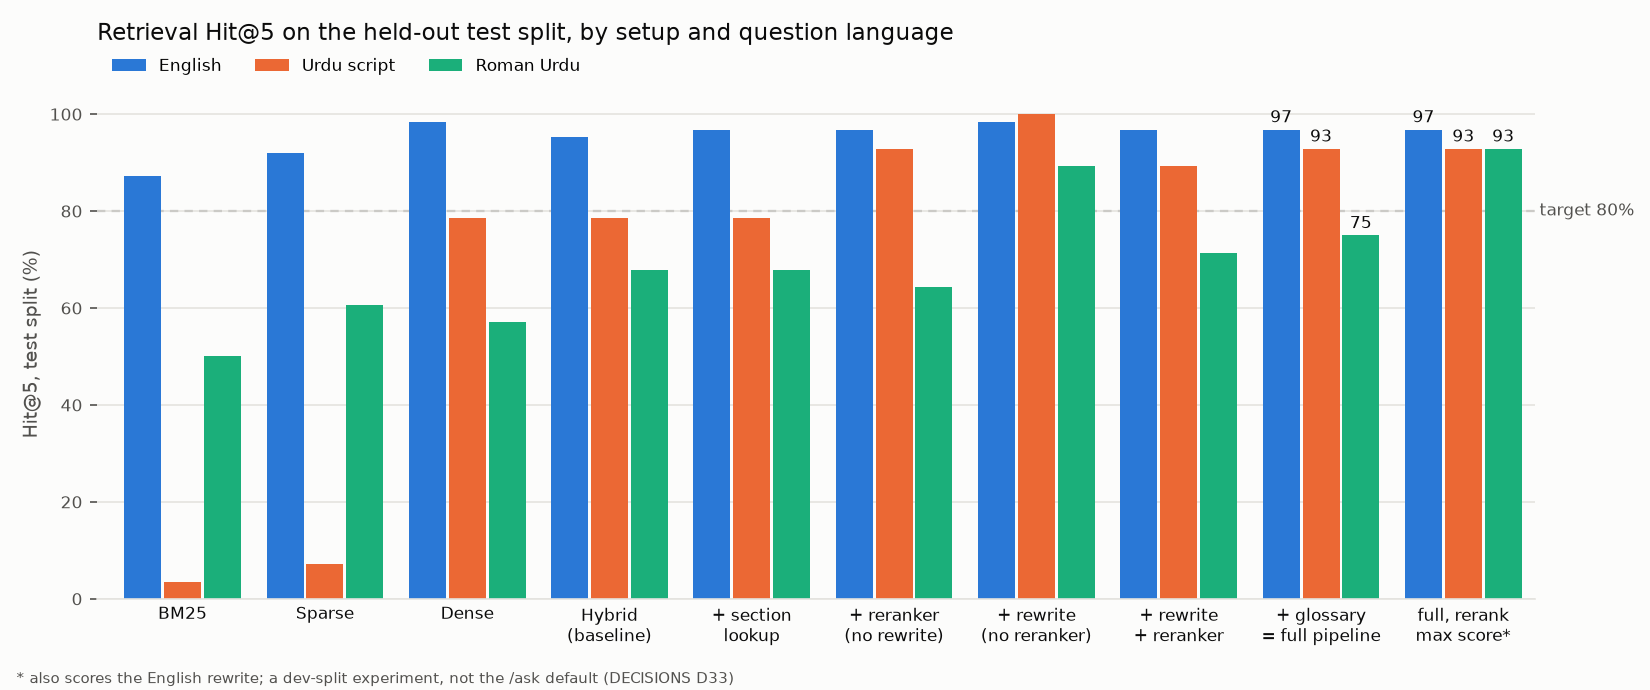
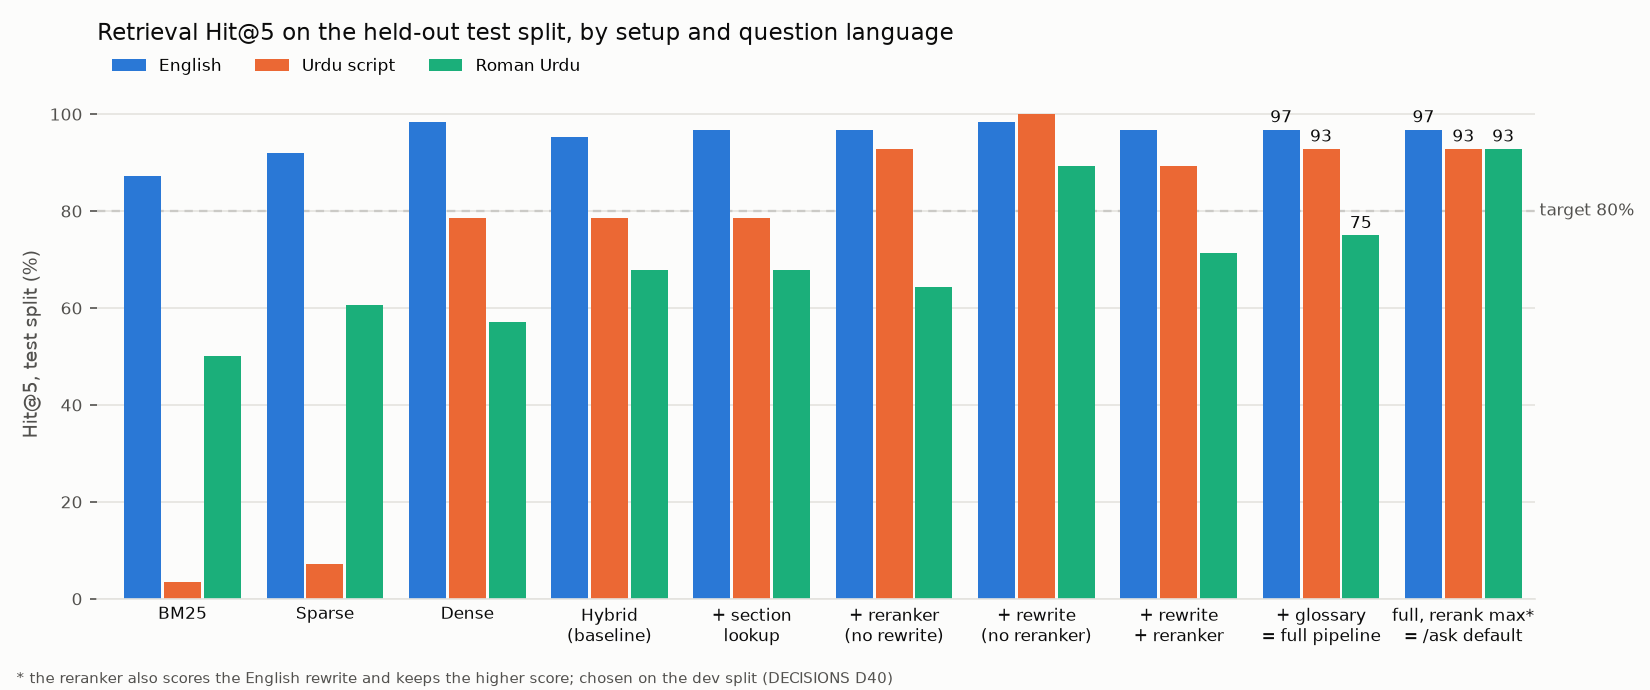
feat: full-max reranking as the /ask default; decisions on verification and translations
- /ask and run_e2e rerank with max(question, first rewrite) score
  (rerank_query setting), chosen on the dev split: Hit@5 96.1 vs 94.1,
  Roman Urdu 83.3 vs 75.0 (D40)
- tests/test_testset.py checks structure instead of fixed question counts
- language_ok for the remaining 13 translations (ur-004, ru-001..012),
  approved without a line-by-line native-speaker read (D41)
- DECISIONS D37-D41: title fix and 4AB override, test-set verification
  with GPT OSS 120B + Qwen judges, FBR questions collected manually from
  public FBR pages, full-max default, language check
- STATUS: 27 s end-to-end answer vs the < 4 s target, open for M5
- Chart footnote and README updated for the new default

Changed region(s): [[0.0, 0.9739, 0.5564, 1.0], [0.8345, 0.8826, 0.9273, 0.9435]]

diff --git a/eval/plot_ablation.py b/eval/plot_ablation.py
@@ -28,7 +28,7 @@ SETUPS = [
     ("pipeline-rewrite-test", "+ rewrite\n(no reranker)"),
     ("pipeline-rewrite-rerank-test", "+ rewrite\n+ reranker"),
     ("pipeline-full-test", "+ glossary\n= full pipeline"),
-    ("pipeline-full-max-test", "full, rerank\nmax score*"),
+    ("pipeline-full-max-test", "full, rerank max*\n= /ask default"),
 ]
 GROUPS = [("english", "English"), ("urdu", "Urdu script"), ("roman_urdu", "Roman Urdu")]
 COLORS = ["#2a78d6", "#eb6834", "#1baf7a"]  # validated categorical slots 1-3
@@ -52,7 +52,7 @@ def main() -> None:
         xs = [i + (g - 1) * (width + 0.02) for i in range(len(rows))]
         ys = [100 * s[key]["hit@5"] for _, s in rows]
         ax.bar(xs, ys, width, color=color, label=name, zorder=2)
-        # Label only the default full pipeline and the experiment next to it.
+        # Label only the two full-pipeline variants.
         for i in (-2, -1):
             ax.text(xs[i], ys[i] + 1.5, f"{ys[i]:.0f}", ha="center", color=INK, fontsize=8)
     ax.axhline(80, color=MUTED, lw=1, ls=(0, (4, 3)), zorder=1)
@@ -78,8 +78,8 @@ def main() -> None:
     fig.text(
         0.01,
         0.01,
-        "* also scores the English rewrite; a dev-split experiment, "
-        "not the /ask default (DECISIONS D33)",
+        "* the reranker also scores the English rewrite and keeps the higher score; "
+        "chosen on the dev split (DECISIONS D40)",
         color=MUTED,
         fontsize=7,
     )

diff --git a/tests/test_testset.py b/tests/test_testset.py
@@ -1,3 +1,5 @@
+from collections import Counter
+
 from eval.validate_testset import known_section_ids, load_testset, validate
 
 
@@ -6,13 +8,21 @@ def test_testset_is_valid_against_current_chunks() -> None:
     assert validate(items, known_section_ids()) == []
 
 
-def test_english_group_size_and_split() -> None:
-    english = [i for i in load_testset() if i.group == "english"]
-    assert len(english) == 90
-    assert sum(i.split == "dev" for i in english) == 27
+def test_every_group_has_dev_and_test_questions() -> None:
+    splits = Counter((i.group, i.split) for i in load_testset())
+    for group in ("english", "urdu", "roman_urdu", "out_of_scope"):
+        assert splits[(group, "dev")] > 0 and splits[(group, "test")] > 0
 
 
-def test_overall_split_matches_the_plan() -> None:
+def test_fbr_questions_are_test_only_and_cite_their_source() -> None:
+    fbr = [i for i in load_testset() if i.source == "fbr"]
+    assert fbr and all(i.split == "test" and i.source_url for i in fbr)
+
+
+def test_translations_share_split_and_gold_with_their_source() -> None:
     items = load_testset()
-    assert len(items) == 200
-    assert sum(i.split == "dev" for i in items) == 60
+    by_id = {i.id: i for i in items}
+    for i in items:
+        if i.source_id:
+            src = by_id[i.source_id]
+            assert (i.split, i.gold_section_ids) == (src.split, src.gold_section_ids)

diff --git a/backend/app/config.py b/backend/app/config.py
@@ -2,6 +2,7 @@
 
 from functools import lru_cache
 from pathlib import Path
+from typing import Literal
 
 from pydantic import AliasChoices, Field, SecretStr
 from pydantic_settings import BaseSettings, SettingsConfigDict
@@ -41,6 +42,9 @@ class Settings(BaseSettings):
     rrf_k: int = 60
     candidates_per_retriever: int = 30  # top-N from each of dense and sparse before fusion
     rerank_candidates: int = 30  # fused chunks passed to the reranker
+    # "max": the reranker also scores each chunk against the first English rewrite and keeps the
+    # higher score; chosen on the dev split (DECISIONS D40). Doubles the reranker time.
+    rerank_query: Literal["original", "max"] = "max"
     answer_top_k: int = 6  # reranked chunks shown to the answer model
     # Refuse without calling the answer model when the best reranker score is below this.
     # Kept very low: on the dev split Urdu / Roman Urdu questions that *are* answerable often

diff --git a/eval/run_eval.py b/eval/run_eval.py
@@ -12,9 +12,9 @@ Pipeline presets (each adds one step to hybrid search, for the ablation table):
     lookup          + direct section lookup ("section 149", "dafa 236K")
     rewrite         + English query rewrite (GPT OSS 20B), no glossary
     rewrite-rerank  + bge-reranker-v2-m3 on the top 30
-    full            + Urdu glossary in the rewrite prompt
+    full            + Urdu glossary in the rewrite prompt (reranks with the question only)
     lookup-rerank   lookup + reranker without any LLM (runs without a Groq key)
-    full-max        full, reranking with max(question, first rewrite) score (dev experiment)
+    full-max        full, reranking with max(question, first rewrite) score (/ask default, D40)
 
 LLM outputs are cached in eval/cache/groq.jsonl, so re-running replays them without Groq.
 """

diff --git a/backend/app/main.py b/backend/app/main.py
@@ -26,7 +26,8 @@ def build_service():
 
     s = get_settings()
     llm = groq_client(s)
-    pipeline = build_pipeline(PipelineConfig(candidates=s.rerank_candidates), settings=s, llm=llm)
+    config = PipelineConfig(candidates=s.rerank_candidates, rerank_query=s.rerank_query)
+    pipeline = build_pipeline(config, settings=s, llm=llm)
     return AskService(
         pipeline,
         AnswerGenerator(llm, s.answer_model),

diff --git a/eval/run_e2e.py b/eval/run_e2e.py
@@ -40,7 +40,7 @@ def build_service():
     s = get_settings()
     llm = groq_client(s, cache_path=LLM_CACHE)
     pipeline = build_pipeline(
-        PipelineConfig(candidates=s.rerank_candidates),
+        PipelineConfig(candidates=s.rerank_candidates, rerank_query=s.rerank_query),
         settings=s,
         llm=llm,
         rerank_cache=RERANK_CACHE,

diff --git a/docs/DECISIONS.md b/docs/DECISIONS.md
@@ -287,6 +287,7 @@ Newest first within each milestone. Each entry says what the plan said, what we 
   replayed.
 
 ### D33. Retrieval ablation with the LLM rewrite: the reranker undoes the rewrite on Urdu and Roman Urdu
+- *Update: `full-max` became the `/ask` default, decided on the dev split (D40).*
 - **Test split, Hit@5** (all rows include section lookup from the hybrid baseline on):
 
   | Setup | English | Urdu | Roman Urdu | All | Recall@5 (all gold) | MRR@10 |
@@ -342,3 +343,68 @@ Newest first within each milestone. Each entry says what the plan said, what we 
   from the cache on the next run.
 - For the demo in Milestone 5 this is a real constraint: a paid Groq tier, a smaller answer model, or fewer / shorter
   sources.
+
+### D37. Chunk titles: bracketed headings, and units the PDF prints without a heading
+- **Found:** titles like "Subject to this Ordinance, a surcharge shall be payable by" (ITO 4AB), ". Application for
+  initiation of Mutual Agreement Procedure" (Rules 19D–19G) and body text as the title of Rules 22, 27B–27Q, 30, 31,
+  49, 199.
+- **Fix** (`ingestion/chunk.py`): brackets and dots before a title ("[19D].") are stripped; more title separators are
+  recognised (":-", "─", "−", "word- (1)", ". (1)", ": The …"); when the PDF prints no heading, the title is left
+  empty (labels then read just "Rule 27B") instead of repeating the first words of the text.
+- **ITO 4AB:** the FBR PDF prints "[[4AB] Subject to this Ordinance, a surcharge …" with no heading, and its table of
+  contents copies those words. Its title is set by hand to **"Surcharge"** (`title_overrides` in
+  `ingestion/laws/ito2001.py`), approved by Hamza. It is a label only; the law text is unchanged.
+- 52 chunks changed title; the text of the chunks changed only in "(continued)" header lines. Those 53 chunks were
+  re-embedded into the index (upsert by id); a full `python -m ingestion.index` gives the same result.
+
+### D38. Test-set verification without a tax expert: two LLM judges plus a number check in code
+- **Plan:** Hamza verifies every question by hand. He has no tax background, so this is replaced by
+  `eval/verify_testset.py`:
+  1. Two independent judges on Groq read **only the gold section text** and answer in JSON: does the section answer
+     the question, does the reference answer match the section, and a short reason.
+  2. Code checks that every number, percentage and amount in the reference answer appears in the gold text (words
+     and digits: "ten million" = "Rs. 10 million"; legal references like "section 22" are not quantities; inputs
+     given in the question and arithmetic written out in the answer, "5% x 200,000 = Rs. 10,000", are accepted).
+  3. Both judges "yes" on both checks and every number found → `"verified": "machine"`; anything else goes to
+     `eval/FLAGGED.md` with the reasons, and is fixed or removed.
+- **Judges:** `openai/gpt-oss-120b` and **`qwen/qwen3.8-27b`**. The plan named `llama-3.3-70b-versatile`, which
+  Groq no longer serves to this account; Qwen is a different model family from GPT OSS, so the two judges stay
+  independent. Approved by Hamza. Qwen answers without "thinking" (its free tier allows 1,000 output tokens a
+  minute and counts thinking tokens).
+- Translations (Urdu, Roman Urdu) share gold sections and reference answer with their English source; the source is
+  judged once and a translation inherits the result only if its wording is approved (`language_ok`, D41).
+- Out-of-scope questions have no gold text: the judges read the question and the list of covered laws and say
+  whether it must be refused.
+- Long gold sections are cut to the most related chunks (≤ 1,500 tokens per judge call, for Groq free-tier limits);
+  the number check always uses the whole section.
+- A random, stratified sample of 30 test questions goes to a human expert (`eval/expert_sample.json`).
+
+### D39. FBR-sourced questions
+- 39 test questions (`fbr-001` … `fbr-039`, `"source": "fbr"`, `source_url` on each) were **collected manually from
+  public FBR pages**: the help.fbr.gov.pk knowledge base, fbr.gov.pk "Income Tax Basics", the Taxpayer's Facilitation
+  Guides IR-IT-01 (Basic Concepts) and IR-IT-02 (Obligation to File), and the FBR–GIZ FAQ on tax treaties.
+- Most of these pages date from 2012–2023. Every answer was checked against the current Ordinance (30.06.2026) and
+  the reference answer written from the current text. **Dropped because the law changed** since FBR published them:
+  the residence test (120 + 365 days, removed from section 82), active taxpayers' list rules (Rule 81B now: daily
+  updates, late filers only after surcharge), "total income" (now includes exempt income), taxable income
+  (ambiguous against FBR's wording), the teacher/researcher reduction (now 25%, ceased after tax year 2025), the
+  senior-citizen reduction (no longer in the Ordinance), the salary cash-payment limit (Rs. 32,000 now, not 15,000),
+  the AOP definition (now includes LLPs), the loan/gift rule of section 39(3) (digital means added), revised returns
+  (now need the Commissioner's approval), the refund time limit (three years, not two), and "section 107 empowers
+  FBR" (the law says the Federal Government).
+- They are English questions on the test split and are reported as their own group ("fbr") next to the written
+  English questions.
+
+### D40. `/ask` now reranks with max(question, rewrite) score ("full-max")
+- Decided on the **dev split** (D33): Hit@5 **96.1% vs 94.1%** for the previous default, Roman Urdu **83.3% vs
+  75.0%**, English and Urdu unchanged at 100%. MRR is slightly lower on dev (0.887 vs 0.908).
+- Cost: twice the reranker work per question; latency is already the open Milestone 5 problem (D26).
+- `rerank_query = "max"` in `backend/app/config.py`, used by `/ask` and `eval/run_e2e.py`. The ablation presets keep
+  both variants (`full` = question only, `full-max`).
+
+### D41. Language check of the Urdu and Roman Urdu questions
+- 67 translations were read by Hamza as a native speaker and marked `"language_ok": true`; two of them were reworded
+  (ur-001, ur-002). ur-001 was given in Roman Urdu and is kept in Urdu script (same words), because it belongs to the
+  Urdu-script group.
+- The remaining 13 (ur-004, ru-001 … ru-012, all dev split) were **approved as they are, without a line-by-line
+  native-speaker read**, and are also marked `"language_ok": true`.

diff --git a/README.md b/README.md
@@ -111,15 +111,14 @@ Urdu and Roman Urdu questions are natural rewrites of English ones and share the
 | + reranker (bge-reranker-v2-m3, top 30), no rewrite | 96.8% | 92.9% | 64.3% |
 | + English query rewrite (GPT OSS 20B), no reranker | **98.4%** | **100%** | **89.3%** |
 | + rewrite + reranker | 96.8% | 89.3% | 71.4% |
-| + glossary in rewrite = **full pipeline** (`/ask` default) | 96.8% | 92.9% | 75.0% |
-| full pipeline, reranking with max(question, rewrite) score (dev experiment, not the default) | 96.8% | 92.9% | 92.9% |
+| + glossary in rewrite = full pipeline, reranking with the question only | 96.8% | 92.9% | 75.0% |
+| full pipeline, reranking with max(question, rewrite) score = **`/ask` default** (D40) | 96.8% | 92.9% | **92.9%** |
 
 The rewrite is the big win (Roman Urdu 67.9% → 89.3%). The reranker then undoes part of it for Urdu and Roman Urdu:
-it scores chunks against the original question, which it reads poorly in Roman Urdu. On the dev split the full
-pipeline was the best setup overall, so it stays the default. Letting the reranker also score the English rewrite
-(`full-max`, last row and the bar marked * in the chart) was tried on dev first: +1 Roman Urdu question there, at
-twice the reranker time, so it wasn't adopted. On test it brings Roman Urdu to 92.9%. Whether to adopt it is decided
-in Milestone 5 with the reranker latency work ([D33](docs/DECISIONS.md)).
+it scores chunks against the original question, which it reads poorly in Roman Urdu. Letting the reranker also score
+the English rewrite and keep the higher score (`full-max`, last row) fixes most of that. It was chosen on the dev
+split (Hit@5 96.1% vs 94.1%, Roman Urdu 83.3% vs 75.0%) and is now the `/ask` default
+([D40](docs/DECISIONS.md)); it doubles the reranker time, which is the open latency problem for Milestone 5.
 
 **Hybrid baseline, test split (119 in-scope questions):**
 

diff --git a/docs/STATUS.md b/docs/STATUS.md
@@ -69,6 +69,10 @@ Last updated: 2026-09-25 (Milestone 3, part 2: LLM ablation and end-to-end eval)
    reranker latency (~29 s per question on CPU, D26), answer-correctness judging (D35), and the Groq daily limit
    for the demo (D36).
 
+## Open for Milestone 5
+- Latency: the live `/ask` answer took 27 s (26 s of it CPU reranking); the target is under 4 s. The new default
+  (`full-max`, D40) doubles the reranker work, so this needs a faster reranker (ONNX / fewer candidates / GPU / API).
+
 ## Open items for Hamza
 - Verify eval questions by hand with `eval/REVIEW.md` (about 20 a day), and tell Claude Code which are wrong.
 - Review `data/glossary_ur.csv` as a native speaker (D25).
